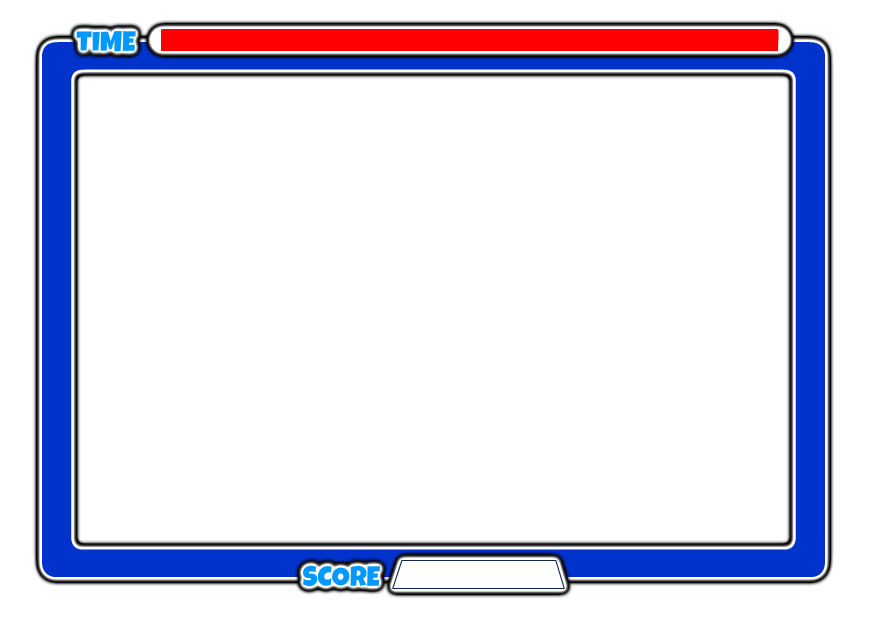
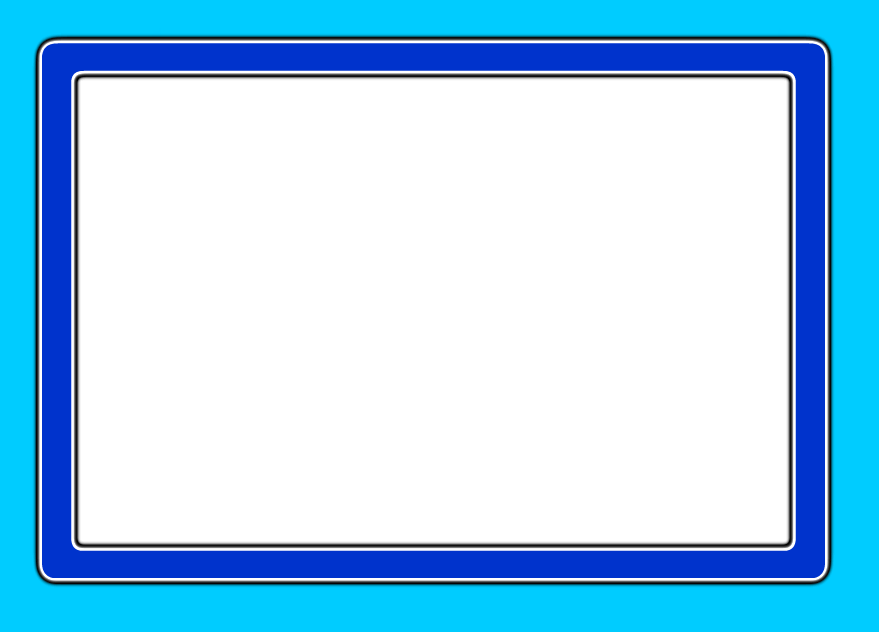
Seperated the farme from the timer and score and added a mute button

Changed region(s): [[0.0, 0.0, 1.0, 1.0]]

diff --git a/js/OneButtonView.js b/js/OneButtonView.js
@@ -8,6 +8,7 @@ function OneButtonView(buttonId, onClickCallback){
 	//sets up the liteners for when the mouse moves and is clicked
 	c.onmousedown = onMouseClick;	
 	c.onmousemove = onMouseMove;
+	ctx.drawImage(assetManager.getAsset("img/Mute"+soundManager.getMuteStatus()+".png"),785,-12);
 }
 
 
@@ -18,13 +19,15 @@ function onMouseMove(event){
 	var correctY = 400;
 	var correctWidth = 200;
 	var correctHeight = 120;
+	var mouseX = event.offsetX? event.offsetX : event.layerX;
+	var mouseY = event.offsetY? event.offsetY : event.layerY;
 
 	//a flag representing if the mouse is currently over the button
 	var currentlyOver = false;
 
 	//classic rectangular collision detection
-	if(event.clientX  >= correctX && event.clientX <= correctX+correctWidth){
-		if(event.clientY >= correctY && event.clientY <= correctY + correctHeight){
+	if(mouseX >= correctX && mouseX <= correctX+correctWidth){
+		if(mouseY >= correctY && mouseY <= correctY + correctHeight){
 			currentlyOver = true;
 		}
 	}
@@ -51,7 +54,7 @@ function onMouseMove(event){
 	}
 }
 
-function onMouseClick(){
+function onMouseClick(event){
 	//check that the mouse is being clicked whilst hovering over the button
 	if(overButton){
 		//play a nice sfx for feedback
@@ -63,5 +66,17 @@ function onMouseClick(){
 
 		//perform the callback function to whatever initiated this 
 		clickCallback();
+	}
+	else{
+		var mouseX = event.offsetX? event.offsetX : event.layerX;
+		var mouseY = event.offsetY? event.offsetY : event.layerY;
+		if(mouseX >= 785 && mouseX <= 785+50){
+		if(mouseY >= -12 && mouseY <= -12 + 40){
+
+			soundManager.mute();
+			ctx.drawImage(assetManager.getAsset("img/GameFrame.png"),0,0);
+			ctx.drawImage(assetManager.getAsset("img/Mute"+soundManager.getMuteStatus()+".png"),785,-12);
+		}
+	}
 	}
 }

diff --git a/js/LevelView.js b/js/LevelView.js
@@ -78,25 +78,40 @@ function onGameClick(event){
 	var correctWidth = 100;
 	var correctHeight = 100;
 	var success = false;
-	if(event.clientX  >= correctX && event.clientX <= correctX+correctWidth){
-		if(event.clientY >= correctY && event.clientY <= correctY + correctHeight){
-			success = true;
+
+	var mouseX = event.offsetX? event.offsetX : event.layerX;
+	var mouseY = event.offsetY? event.offsetY : event.layerY;
+
+	var muteClicked = false;
+	if(mouseX >= 785 && mouseX <= 785+50){
+		if(mouseY >= -12 && mouseY <= -12 + 40){
+
+			soundManager.mute();
+			muteClicked = true;
+			hud.updateHUD(currentScore,timeLimit);
 		}
 	}
-	if(success){
-		soundManager.playSound("sounds/correct");
-		currentScore += 100;
-		difficultyManager.updateDifficulty(currentScore);//Updates the difficulty of the game
-	}
-	else{
-		soundManager.playSound("sounds/wrong");
-		if(currentScore > 0){
-			currentScore -= 100;
-		}	
+	if(!muteClicked){
+		if(mouseX  >= correctX && mouseX <= correctX+correctWidth){
+			if(mouseY >= correctY && mouseY <= correctY + correctHeight){
+				success = true;
+			}
+		}
+		if(success){
+			soundManager.playSound("sounds/correct");
+			currentScore += 100;
+			difficultyManager.updateDifficulty(currentScore);//Updates the difficulty of the game
+		}
+		else{
+			soundManager.playSound("sounds/wrong");
+			if(currentScore > 0){
+				currentScore -= 100;
+			}	
+		}
+		hud.updateHUD(currentScore,timeLimit);
+		createLevel();
 	}
 
-	hud.updateHUD(currentScore,timeLimit);
-	createLevel();
 }
 
 /*

diff --git a/js/HUDView.js b/js/HUDView.js
@@ -2,9 +2,9 @@ function HUDView(){
 }
 
 HUDView.prototype.updateHUD = function(score,time){
-	//redraw the frame
+
 	ctx.drawImage(assetManager.getAsset("img/GameFrame.png"),0,0);
-	
+	ctx.drawImage(assetManager.getAsset("img/Mute"+soundManager.getMuteStatus()+".png"),785,-12);
 	//Update the number of points obtained
 	this.updateScore(score);
 
@@ -13,6 +13,7 @@ HUDView.prototype.updateHUD = function(score,time){
 }
 
 HUDView.prototype.updateScore = function(score){
+	ctx.drawImage(assetManager.getAsset("img/ScoreBar.png"),278,546);
 	//set up the color, size, font and alignment of the text to be displayed
 	ctx.fillStyle="#000000";
 	ctx.font="28px Arial";
@@ -22,6 +23,7 @@ HUDView.prototype.updateScore = function(score){
 }
 
 HUDView.prototype.drawTimerBar = function(time){
+	ctx.drawImage(assetManager.getAsset("img/TimeBar.png"),58,15);
 	//set the color of the progress bar we are going to draw
 	ctx.fillStyle="#00FF00";
 	//create a rectangle with width based on the time elapsed

diff --git a/js/SoundManager.js b/js/SoundManager.js
@@ -25,16 +25,22 @@ SoundManager.prototype.playSound = function(soundFile) {
 }
 
 SoundManager.prototype.playMusic = function(soundFile) {
-	if(!this.muted)
-	{
-		var snd = this.soundDictionary[soundFile];
-		snd.loop = true;
-		snd.pause();
-		snd.currentTime = 0;
-		snd.play();
-	}
+	this.music = this.soundDictionary[soundFile];
+	this.music.loop = true;
+	this.music.pause();
+	this.music.currentTime = 0;
+	this.music.play();
+	this.music.volume = this.muted ? 0 : 1;		
 }
 
 SoundManager.prototype.mute = function(){
-	this.muted = true;
+	this.muted = !this.muted;
+	if(this.music)
+	{
+		this.music.volume = this.muted ? 0 : 1;	
+	}
+}
+
+SoundManager.prototype.getMuteStatus = function(){
+	return this.muted ? "On" : "Off";
 }

diff --git a/js/OddOneOut.js b/js/OddOneOut.js
@@ -23,6 +23,10 @@ function init(){
 	assetManager.addFileToLoad("img/MainMenuTxtOrange.png");
 	assetManager.addFileToLoad("img/MainMenuTxtPurple.png");
 	assetManager.addFileToLoad("img/GameFrame.png");
+	assetManager.addFileToLoad("img/TimeBar.png");
+	assetManager.addFileToLoad("img/ScoreBar.png");
+	assetManager.addFileToLoad("img/MuteOff.png");
+	assetManager.addFileToLoad("img/MuteOn.png");
 	assetManager.addFileToLoad("img/GameOverScreen.png");
 
 	//all of the robot assets use the same naming structure allowing more to be added just by chnaging the counter value
@@ -52,6 +56,10 @@ function switchView(viewId){
 			MainMenuView();
 
 	}	
+}
+
+function drawMuteButton(){
+
 }
 
 //call the init function to setup the game

diff --git a/js/LevelLayouts.js b/js/LevelLayouts.js
@@ -12,5 +12,5 @@ function getLevelData(levelId){
 
 addLevelData([[190,250],[390,250],[590,250]]);
 addLevelData([[190,170],[590,170],[190,370],[590,370]]);
-addLevelData([[190,250],[390,250],[590,250],[190,150],[390,150],[590,150],[190,350],[390,350],[590,350]]);
+addLevelData([[190,250],[390,250],[590,250],[190,130],[390,130],[590,130],[190,370],[390,370],[590,370]]);
 addLevelData([[200,100],[200,210],[200,320],[200,430],[330,100],[330,210],[330,320],[330,430],[460,100],[460,210],[460,320],[460,430],[590,100],[590,210],[590,320],[590,430]]);

diff --git a/index.html b/index.html
@@ -15,9 +15,20 @@
 <script src='js/HUDView.js'></script>
 <script src='js/DifficultyManager.js'></script>
 
-<body>
+<body style="background-color:#00CCFF">
+	<style>
+		canvas {
+		    padding-left: 0;
+		    padding-right: 0;
+		    margin-left: auto;
+		    margin-right: auto;
+		    display: block;
+		    background-color: white;
+		    position:relative;
+		}
+	</style>
 	
-<canvas id="myCanvas" width="850" height="600">
+<canvas id="myCanvas" width="850" height="600" >
 </canvas> 
 
 <script>
